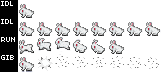
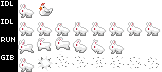
Modify bunny texture to fit vanilla a little better

diff --git a/README.md b/README.md
@@ -4,7 +4,7 @@ The goal of this mod is to provide what I am considering "bang-for-buck" feature
 
 Changes to Vanilla
 ==================
-- Lower default inventory space to a total of 9 slots (not including hotbar)
+- Lower default inventory space to a total of 10 slots (not including hotbar)
   - makes sure the player is selective about what tools to bring for which activities
   - stretches out some parts of the game
   - ties in with future parts of the mod (storage space upgrades, moveable storage system)
